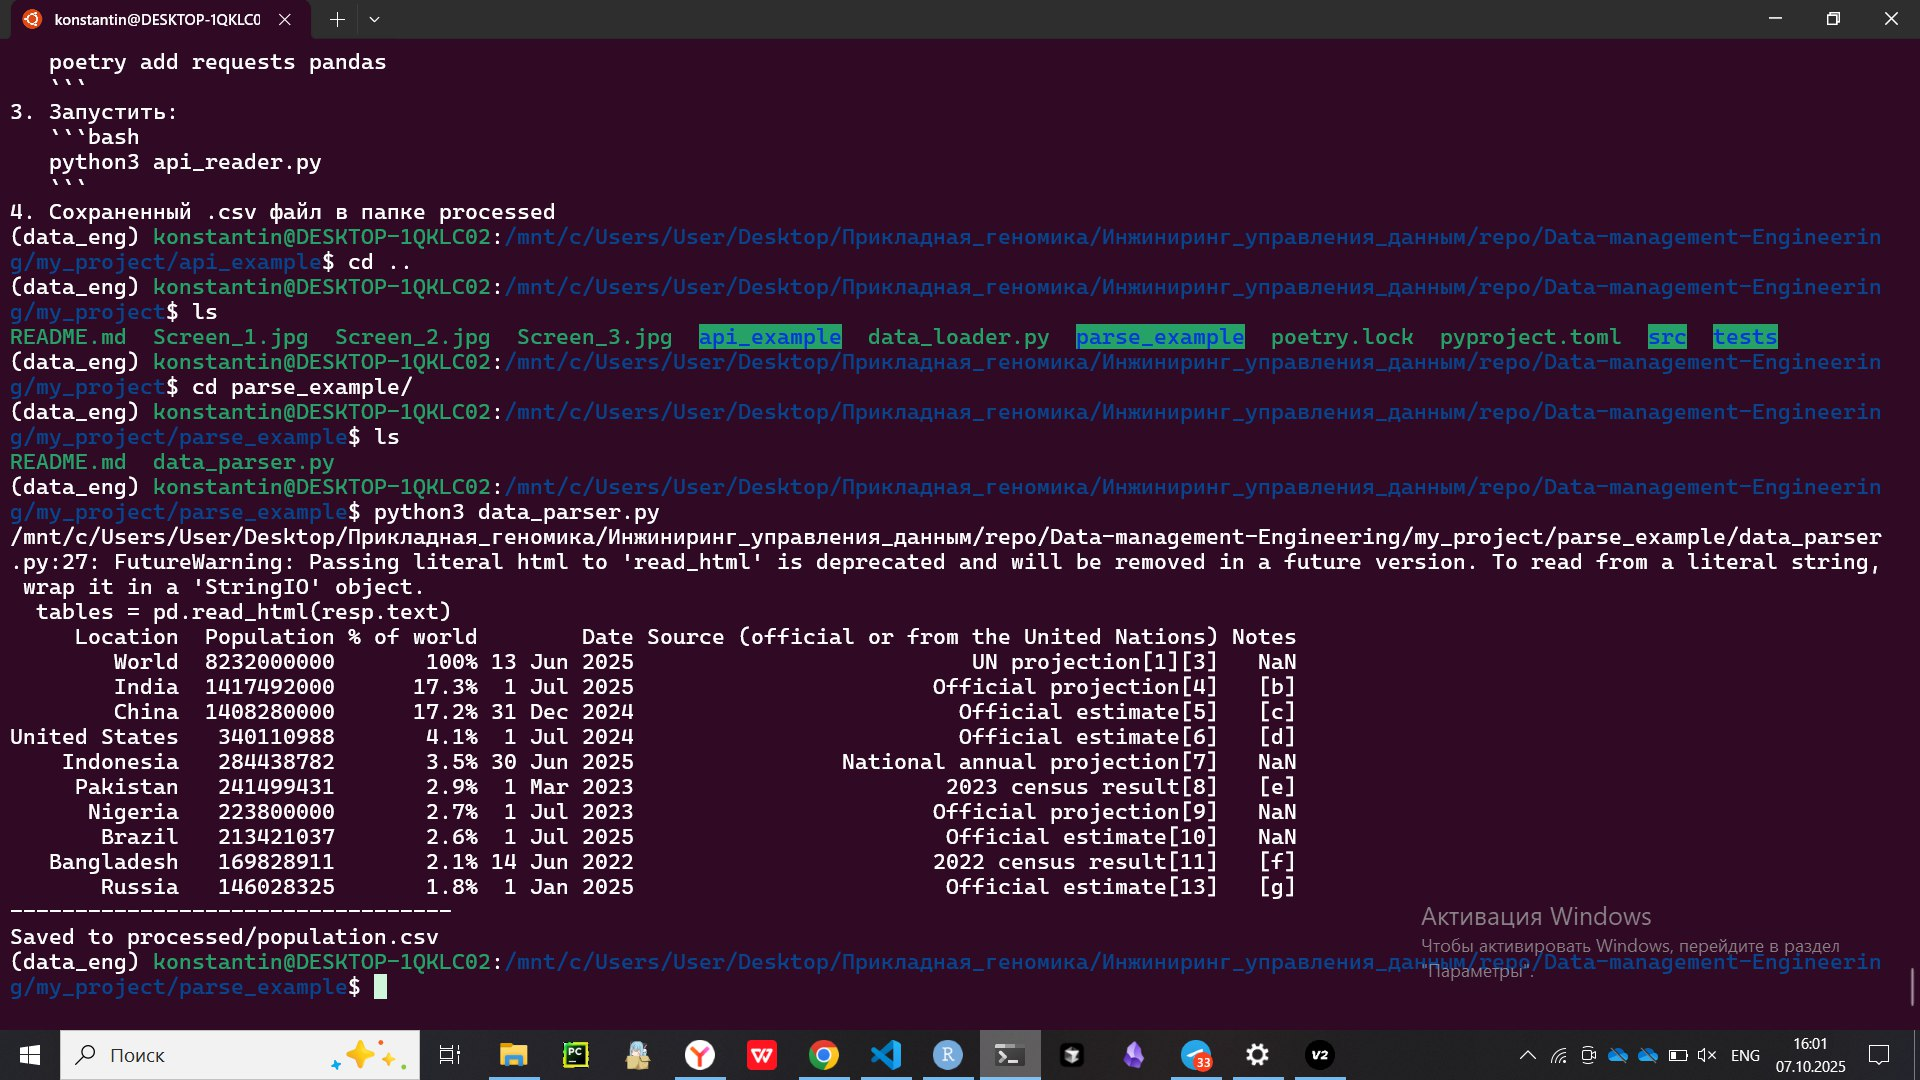
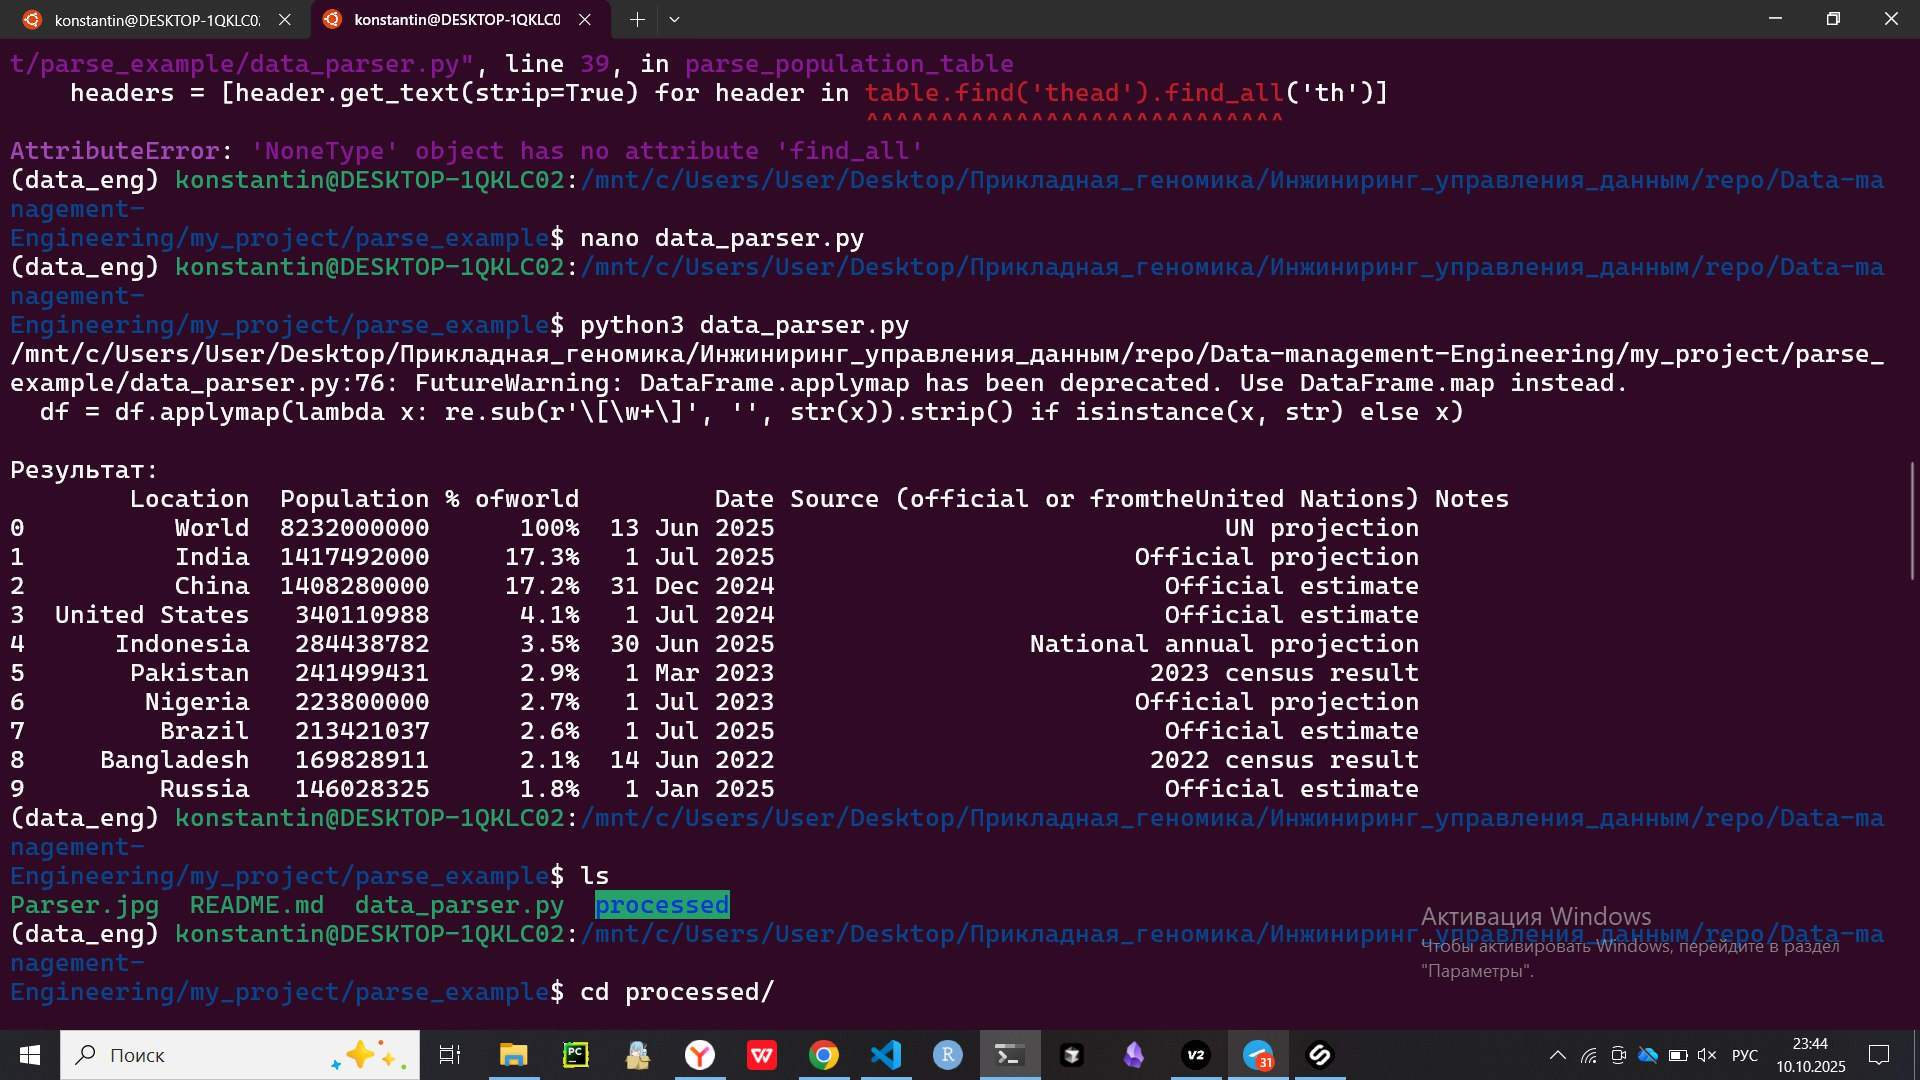
Aprooved parser

diff --git a/my_project/parse_example/data_parser.py b/my_project/parse_example/data_parser.py
@@ -1,50 +1,104 @@
 #!/usr/bin/env python3
 
-#!/usr/bin/env python3
 import os
 import requests
 import pandas as pd
+from bs4 import BeautifulSoup
+import re
 
-url = "https://en.wikipedia.org/wiki/List_of_countries_and_dependencies_by_population"
-out_dir = "processed"
-out_file = os.path.join(out_dir, "population.csv")
+URL = "https://en.wikipedia.org/wiki/List_of_countries_and_dependencies_by_population"
+OUT_DIR = "processed"
+OUT_FILE = os.path.join(OUT_DIR, "population.csv")
+HEADERS = {
+    "User-Agent": "Mozilla/5.0 (X11; Linux x86_64) AppleWebKit/537.36 "
+                  "(KHTML, like Gecko) Chrome/115.0 Safari/537.36"
+}
+
+def fetch_page_content(url):
+    """Функция загружает HTML-содержимое страницы."""
+    resp = requests.get(url, headers=HEADERS, timeout=15)
+    resp.raise_for_status()
+    return resp.text
+
+
+def parse_population_table(html_content):
+    """
+    Функция парсит HTML с помощью BeautifulSoup, находит таблицу с населением
+    и преобразует её в DataFrame.
+    """
+    if html_content is None:
+        return None
+
+    soup = BeautifulSoup(html_content, 'html.parser')
+    table = soup.find('table', {'class': 'wikitable'})
+
+    if not table:
+        return None
+
+    header_row = table.find('tr')
+    headers = [th.get_text(strip=True) for th in header_row.find_all('th')]
+
+    all_rows = []
+
+    data_rows = table.find('tbody').find_all('tr')[1:]
+    
+    for row in data_rows:
+        cells = [cell.get_text(strip=True) for cell in row.find_all(['td', 'th'])]
+        if cells:
+            all_rows.append(cells)
+
+    df = pd.DataFrame(all_rows, columns=headers)
+    return df
+
+def clean_data(df):
+    """
+    Функция очищает и форматирует DataFrame.
+    """
+    if df is None:
+        return None
+
+    df = df.head(100).copy()
+
+    df.columns = [re.sub(r'\[\w+\]', '', col).strip() for col in df.columns]
+
+    population_col = None
+    for col in df.columns:
+        if "population" in col.lower():
+            population_col = col
+            break
+
+    if population_col:
+        df[population_col] = df[population_col].astype(str).str.replace(r'[,\s]', '', regex=True)
+        df[population_col] = pd.to_numeric(df[population_col], errors='coerce').astype('Int64')
+    else:
+        print("Колонка с населением не найдена.")
+
+    df = df.applymap(lambda x: re.sub(r'\[\w+\]', '', str(x)).strip() if isinstance(x, str) else x)
+
+    return df
+
+
+def save_to_csv(df, path):
+    """ Функция сохраняет DataFrame в CSV файл."""
+    if df is None:
+
+        return
+
+    
+    os.makedirs(os.path.dirname(path), exist_ok=True)
+    df.to_csv(path, index=False)
+
 
 def main():
-    # делаем запрос с заголовком User-Agent (иначе часто 403)
-    headers = {
-        "User-Agent": "Mozilla/5.0 (X11; Linux x86_64) AppleWebKit/537.36 "
-                      "(KHTML, like Gecko) Chrome/115.0 Safari/537.36"
-    }
-    try:
-        resp = requests.get(url, headers=headers, timeout=15)
-        resp.raise_for_status()
-    except Exception as e:
-        print("Ошибка при запросе страницы:", e)
-        return
+    """Главная функция, управляющая всем процессом."""
+    html = fetch_page_content(URL)
+    df_raw = parse_population_table(html)
+    df_clean = clean_data(df_raw)
+    
+    if df_clean is not None:
+        print("\nРезультат:")
+        print(df_clean.head(10).to_string())
+        save_to_csv(df_clean, OUT_FILE)
 
-    # передаём HTML текст в pandas.read_html()
-    try:
-        tables = pd.read_html(resp.text)
-    except Exception as e:
-        print("Не удалось распарсить HTML:", e)
-        return
-
-
-    df = tables[0].copy()
-    df = df.head(100)
-
-
-    for col in df.columns:
-        if "population" in str(col).lower():
-            df[col] = df[col].astype(str).str.replace(r"[,\u00A0]", "", regex=True)
-            df[col] = pd.to_numeric(df[col], errors="coerce").astype("Int64")
-
-
-    os.makedirs(out_dir, exist_ok=True)
-    df.to_csv(out_file, index=False)
-
-    print(df.head(10).to_string(index=False))
-    print("----------------------------------")
-    print("Saved to", out_file)
-
-main()
+if __name__ == "__main__":
+    main()

diff --git a/my_project/parse_example/README.md b/my_project/parse_example/README.md
@@ -17,11 +17,7 @@
    ```
 2. Установить зависимости (если ещё не установлены):
    ```bash
-   pip install pandas requests lxml html5lib
-   ```
-   или с poetry:
-   ```bash
-   poetry add pandas requests lxml html5lib
+   pip install requests pandas beautifulsoup4 lxml
    ```
 3. Запустить парсер:
    ```bash
